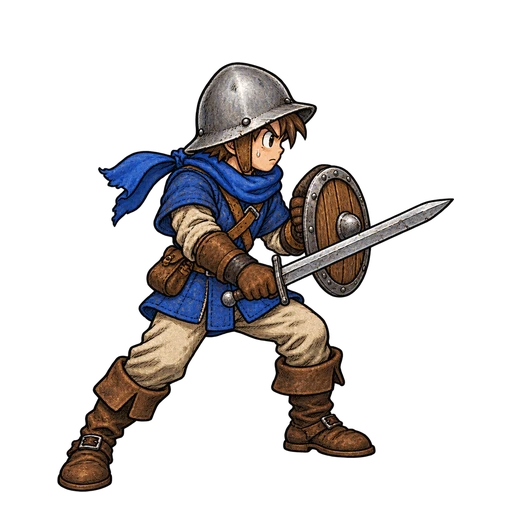
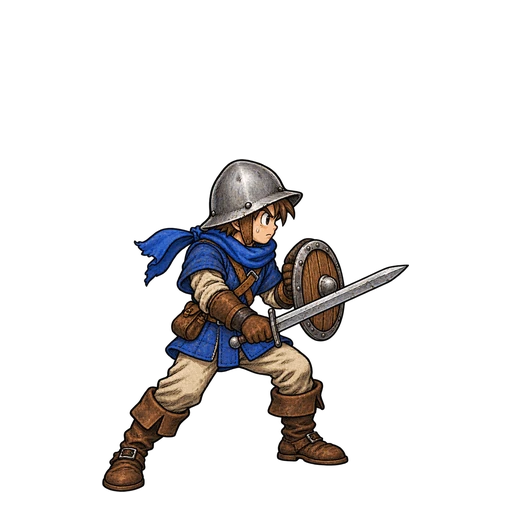
feat(ui): add six individual swordsman battle poses

Changed region(s): [[0.0938, 0.125, 0.9062, 0.9688]]

diff --git a/tools/browser-tests/species.js b/tools/browser-tests/species.js
@@ -1,7 +1,8 @@
 const { chromium } = require(process.env.PLAYWRIGHT || 'playwright');
 const assert = require('node:assert/strict');
 const path = require('node:path');
-const orc = process.env.SPECIES === 'orc';
+const species = process.env.SPECIES || true;
+const orc = species !== true;
 (async () => {
   const browser = await chromium.launch(process.env.CHROME ? { executablePath: process.env.CHROME } : {});
   try {
@@ -11,7 +12,7 @@ const orc = process.env.SPECIES === 'orc';
     await page.goto('file://' + process.env.GAME + '/battle-preview.html');
     for (const width of [390, 1280]) {
       await page.setViewportSize({ width, height: 900 });
-      await page.evaluate(orc => { replay(2, false, orc ? 'orc' : true); BattleScene.stop(); }, orc);
+      await page.evaluate(species => { replay(2, false, species); BattleScene.stop(); }, species);
       await page.waitForFunction(() => [...document.querySelectorAll('.bu-sprite-img')].every(i => i.complete && i.naturalWidth === 512));
       for (const id of ['p0', 'p1']) {
         for (const pose of ['idle', 'attack-windup', 'strike', 'recover', 'hurt', 'fallen']) {
@@ -47,11 +48,11 @@ const orc = process.env.SPECIES === 'orc';
     });
     assert.equal(await page.evaluate(() => BattleScene.motions.size), 0);
     if (!orc) assert.equal(await page.locator('.vfx-slash').count(), 0);
-    await page.evaluate(orc => { replay(2, false, orc ? 'orc' : true); BattleScene.skip(); }, orc);
+    await page.evaluate(species => { replay(2, false, species); BattleScene.skip(); }, species);
     assert.equal(await page.evaluate(() => BattleScene.motions.size + BattleScene.pendingHits.size), 0);
     await page.evaluate(() => BattleScene.spriteFailed(BattleScene.units.p0.sprite));
     assert.equal(await page.locator('#bu-p0 .battle-sprite').count(), 0);
     assert.deepEqual(errors, []);
-    console.log(`✓ ${orc ? 'orc: 6' : 'species: 12'} poses, both sides, x1/x2/x4, HP timing, skip, reduced motion, fallback`);
+    console.log(`✓ ${orc ? species + ': 6' : 'species: 12'} poses, both sides, x1/x2/x4, HP timing, skip, reduced motion, fallback`);
   } finally { await browser.close(); }
 })().catch(e => { console.error(e); process.exit(1); });

diff --git a/battle-preview.html b/battle-preview.html
@@ -15,6 +15,7 @@
   <button id="arrival">召喚と復活を確認</button>
   <button id="species">スライム・骸骨兵を確認</button>
   <button id="orc">オークの斧撃を確認</button>
+  <button id="swordsman">剣士の斬撃を確認</button>
 </header>
 <div id="app"></div>
 <script src="src/data/portraits.js"></script>
@@ -43,6 +44,9 @@ function replay(count = 1, ranged = false, species = false) {
   if (species === 'orc') {
     for (const unit of [...player, ...enemy]) Object.assign(unit, { tplId: 'orc', name: 'オーク', icon: '👹' });
   }
+  if (species === 'swordsman') {
+    for (const unit of [...player, ...enemy]) Object.assign(unit, { tplId: 'swordsman', name: '剣士', icon: '🗡' });
+  }
   UI.set(BattleScene.shell({ stage: 1, army: '見習い冒険者', region: '演出試写' }));
   const events = [{ type: 'battle_start', player, enemy }, { type: 'round_start', round: 1 }];
   for (let i = 0; i < count; i++) {
@@ -62,6 +66,7 @@ document.getElementById('crowd').onclick = () => replay(5);
 document.getElementById('ranged').onclick = () => replay(1, true);
 document.getElementById('species').onclick = () => replay(2, false, true);
 document.getElementById('orc').onclick = () => replay(1, false, 'orc');
+document.getElementById('swordsman').onclick = () => replay(1, false, 'swordsman');
 function replayArrival() {
   UI.set(BattleScene.shell({ stage: 1, army: '演出確認', region: '召喚・復活' }));
   const player = [{ id: 'p0', tplId: 'goblin', side: 'player', name: 'ゴブ太', icon: '👺', hp: 30, maxHp: 30 }];

diff --git a/src/ui/battle_scene.js b/src/ui/battle_scene.js
@@ -17,7 +17,7 @@ const BattleScene = {
     slime: new Set(["idle", "attack-windup", "strike", "recover", "hurt", "fallen"]),
     skeleton: new Set(["idle", "attack-windup", "strike", "recover", "hurt", "fallen"]),
     orc: new Set(["idle", "attack-windup", "strike", "recover", "hurt", "fallen"]),
-    swordsman: new Set(["idle"])
+    swordsman: new Set(["idle", "attack-windup", "strike", "recover", "hurt", "fallen"])
   },
   motions: new Set(),
   pendingHits: new Set(),

diff --git a/scripts/prepare_single_motion.py b/scripts/prepare_single_motion.py
@@ -1,0 +1,41 @@
+"""Prepare individually generated poses using measured identity scale, never sheet slicing."""
+import json
+import argparse
+from pathlib import Path
+from PIL import Image
+
+POSES = ('idle', 'attack-windup', 'strike', 'recover', 'hurt', 'fallen')
+
+def main():
+    parser = argparse.ArgumentParser()
+    parser.add_argument('directory', type=Path)
+    args = parser.parse_args()
+    config = json.loads((args.directory / 'motion-scale.json').read_text())
+    cells = []
+    for pose in POSES:
+        with Image.open(args.directory / (pose + '-source.png')) as source:
+            assert source.mode == 'RGBA', f'{pose}: no alpha'
+            alpha = source.getchannel('A')
+            assert alpha.getextrema()[0] == 0, f'{pose}: opaque background'
+            bounds = alpha.point(lambda a: 255 if a > 20 else 0).getbbox()
+            assert bounds, f'{pose}: empty'
+            cell = source.crop(bounds)
+            # Calibrate a fixed body landmark (helmet), not the pose bounding box.
+            factor = config['referencePixels'] / config['landmarkPixels'][pose]
+            cells.append(cell.resize((round(cell.width * factor), round(cell.height * factor)), Image.Resampling.LANCZOS))
+    scale = min(450 / max(c.width for c in cells), 440 / max(c.height for c in cells))
+    preview = Image.new('RGB', (768, 280), '#d5cfbd')
+    for index, (pose, cell) in enumerate(zip(POSES, cells)):
+        cell = cell.resize((round(cell.width * scale), round(cell.height * scale)), Image.Resampling.LANCZOS)
+        canvas = Image.new('RGBA', (512, 512))
+        canvas.alpha_composite(cell, ((512 - cell.width) // 2, 492 - cell.height))
+        target = args.directory / (pose + '.webp')
+        canvas.save(target, 'WEBP', quality=90, method=6)
+        preview.paste(canvas.resize((128, 128)), (index * 128, 0), canvas.resize((128, 128)))
+        flipped = canvas.transpose(Image.Transpose.FLIP_LEFT_RIGHT).resize((128, 128))
+        preview.paste(flipped, (index * 128, 140), flipped)
+        print(pose, target.stat().st_size, canvas.getchannel('A').getextrema())
+    preview.save(args.directory / 'motion-review.jpg')
+
+if __name__ == '__main__':
+    main()

diff --git a/HANDOFF.md b/HANDOFF.md
@@ -16,6 +16,16 @@
 
 ## 0. 次チャットの開始点（2026-09-03）
 
+### 戦闘アート制作の引き継ぎ（2026-09-04・CodeX）
+
+最新オーナー指示でGemini分担を中止し、Codexが生成・整形・実装・検証を担当する。
+既存剣士を基準に5差分を単体生成し、6ポーズを接続。試写室の「剣士の斬撃を確認」で再生できる。
+PNG原画と512px透過WebPは `assets/battle/units/swordsman/`。チェック柄RGBの初稿は不採用。
+単体用 `scripts/prepare_single_motion.py` は身体基準の寸法補正後、共通倍率・足元492で整形する。
+**次にやること**: 弓兵と魔法系の専用絵、遠隔攻撃の詠唱/射撃ポーズ再生を接続する。
+残り味方7種・敵9役を数体ずつ検証/コミット/push。モルモ・core・数値は対象外。
+下のGemini制作待ち・全種族量産保留は過去の方針であり、今回の明示依頼により更新された。
+
 ### Gemini向け敵剣士制作キット（2026-09-04・CodeX）
 
 オーナーと「敵剣士1体で画風確認→差分を1枚ずつGemini制作→組み込み」を合意。
@@ -1508,7 +1518,8 @@ BGMは実装済み（上の「BGM『魔王軍の行進曲』」）。
 
 ## 5. バックログ（優先度順）
 
-- 敵剣士: Gemini向け制作キットを準備済み・画像受領待ち。待機1枚承認→5差分→試写の順。弓兵/敵魔法使いへの拡張はその後。
+- 敵剣士: Codexで6ポーズ接続済み。残り敵役は弓兵・盾兵・投石兵・斧兵・騎兵・指揮官・聖職者・賢者・勇者。通常編成とvariantsの両方を確認済み。まず弓兵/魔法系、射撃・詠唱の再生処理から。
+- 残り味方: コボルト・ゾンビ・インプ・魔法使い・死霊術師・オーガ・キングスライム。各6ポーズ、種族ごとの動作。Geminiへの送信/画像受領待ちは不要。
 
 - オークの重量級6ポーズと専用動作は実装済み。コボルトの軽快な動作を次候補とし、種族ごとの映像差を試写で確認する。
 

diff --git a/docs/BATTLE_SPECIES_MOTION.md b/docs/BATTLE_SPECIES_MOTION.md
@@ -1,5 +1,20 @@
 # 種族モーション追加（2026-09-04）
 
+## 剣士の単体差分（2026-09-04）
+
+内蔵image_genで既存 `swordsman/idle.webp` を毎回参照し、5差分を単体生成。
+共通指示: same character/equipment, right-facing full body, thick uneven ink, muted matte
+1990s RPG bestiary, generous margins, real RGBA transparency, no backdrop/shadow/effects/text.
+ポーズ指示: windup=pull sword back and bend knees; strike=lunge and slash low forward;
+recover=shift weight back and draw sword to hip; hurt=recoil backward, eyes closed;
+fallen=collapse on side, head right, equipment beside hands, no gore.
+windup/hurt初稿はRGBチェック柄だったためbackground-extractionで実alphaへ修正した。
+保存先 `assets/battle/units/swordsman/`。各 `*-source.png` が採用原画。
+`motion-scale.json` の兜寸法を基準に出力画像間の体格を校正し、その後は全ポーズ共通倍率・足元492。
+再生成: `python scripts/prepare_single_motion.py assets/battle/units/swordsman`
+`motion-review.jpg` は左右の128px比較。命中38%・総尺・HP/音・フォールバック契約を維持。
+検証: species通常/orc/swordsman、battlefield、ranged、arrival、vfx-lifecycle。
+
 スライム・骸骨兵の6ポーズ（idle/attack-windup/strike/recover/hurt/fallen）。
 内蔵image_genで生成。履歴書写真ではなく戦闘用全身絵とするオーナー指示を優先。
 設計ゲート7の「短い映像でも種族の個性が伝わる」に対応。ルールや戦闘尺は増やさない。
